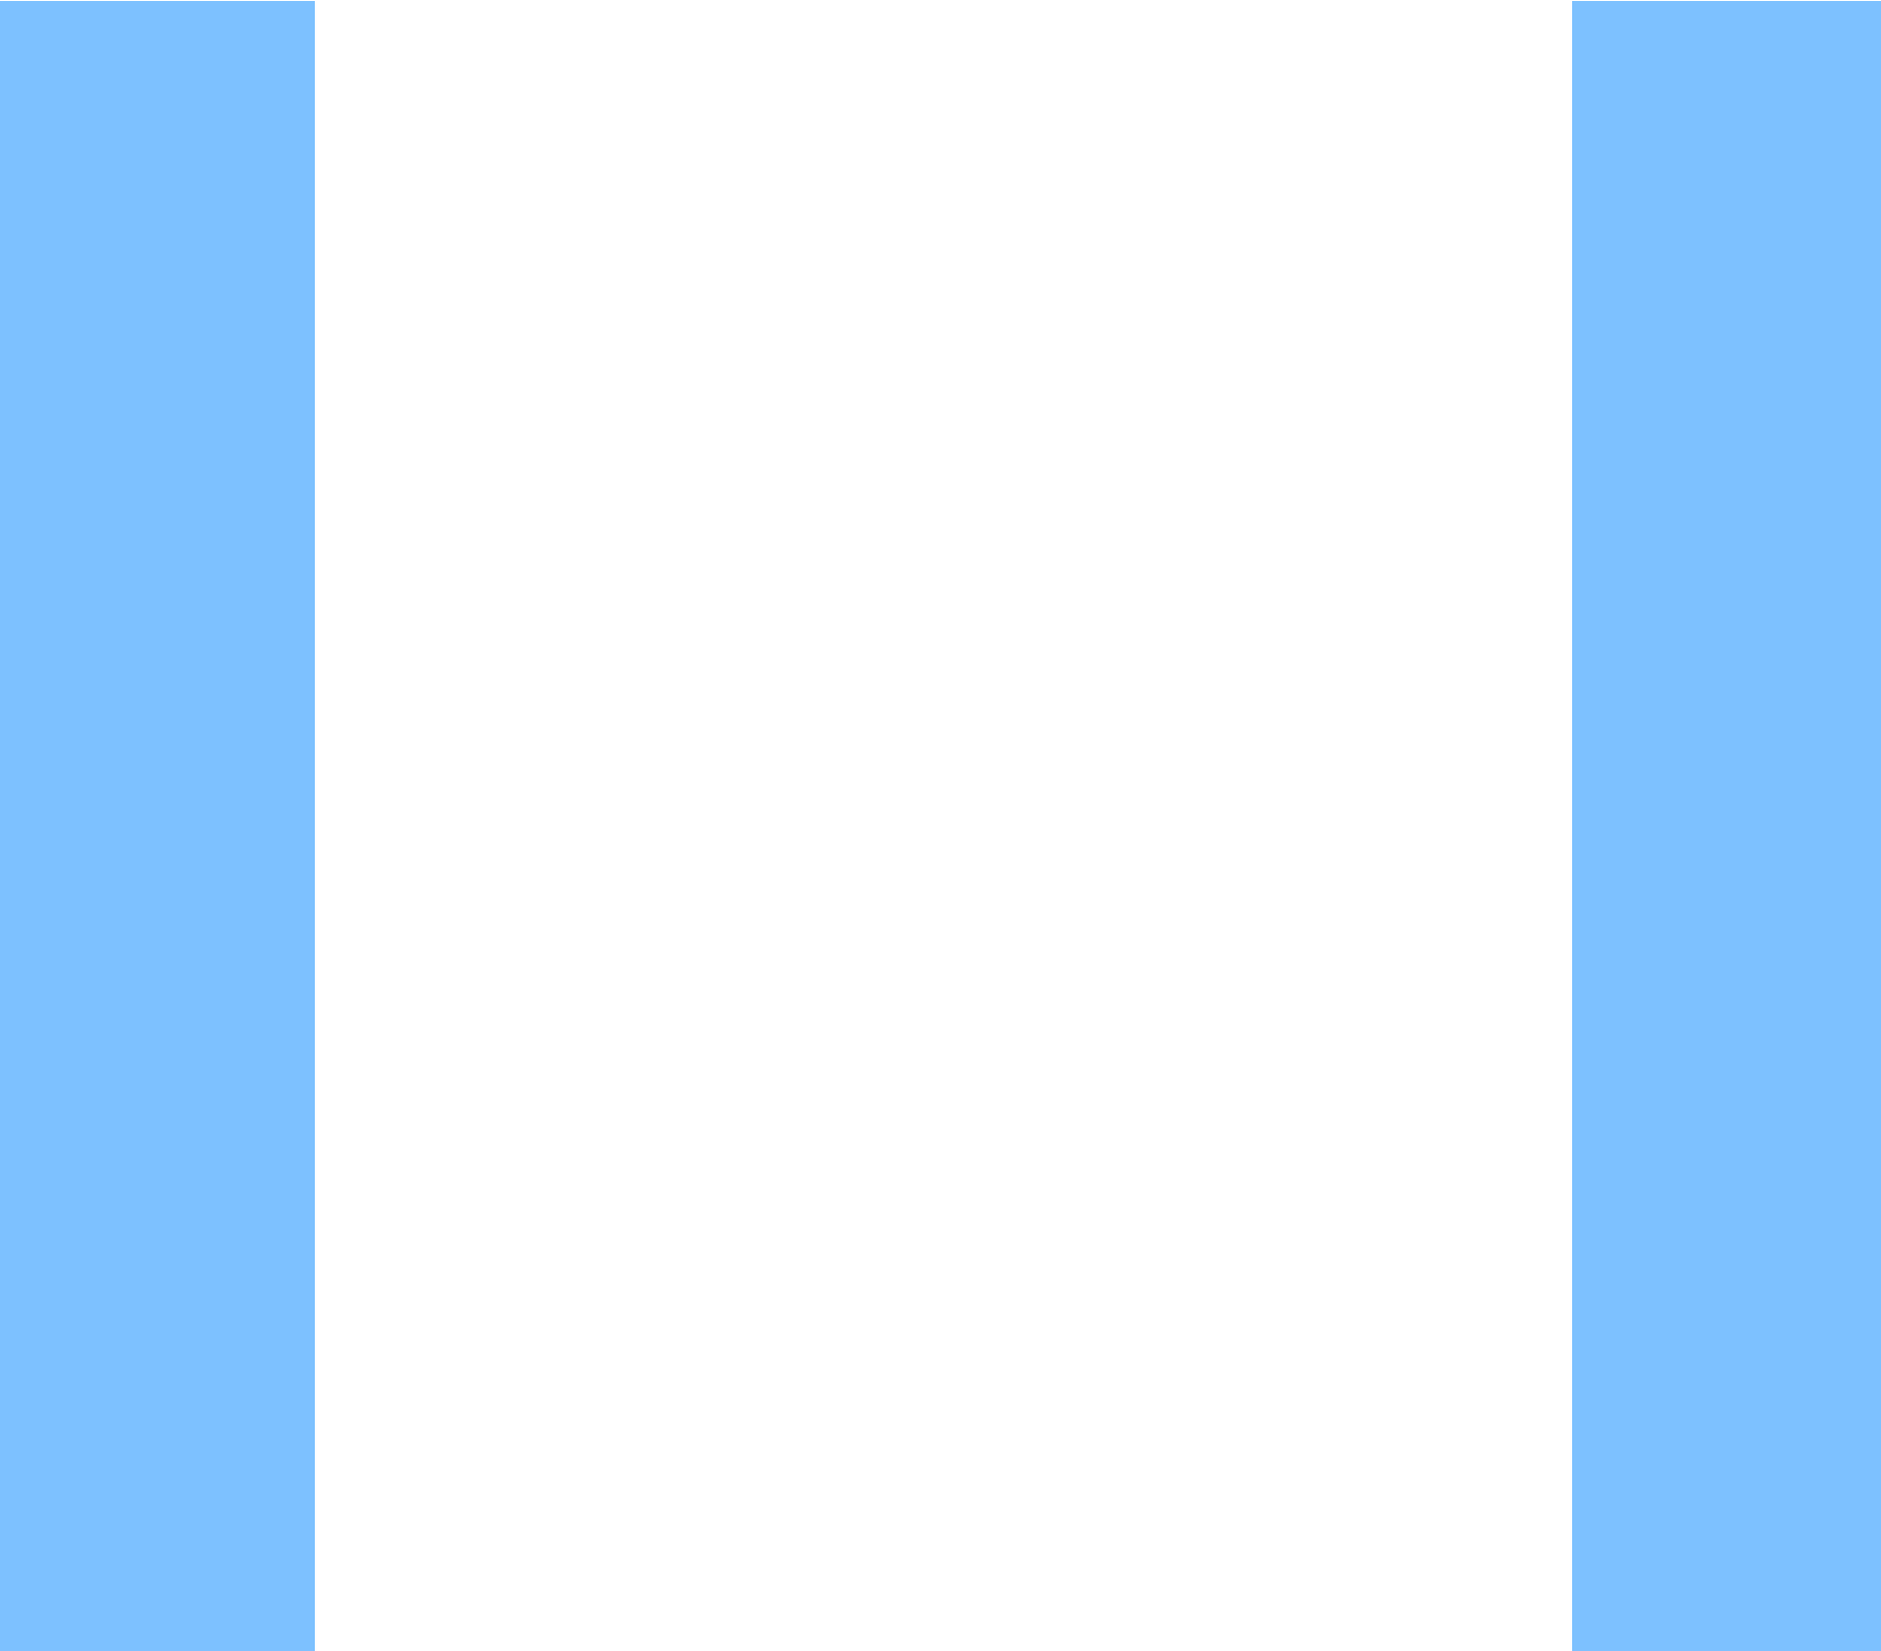
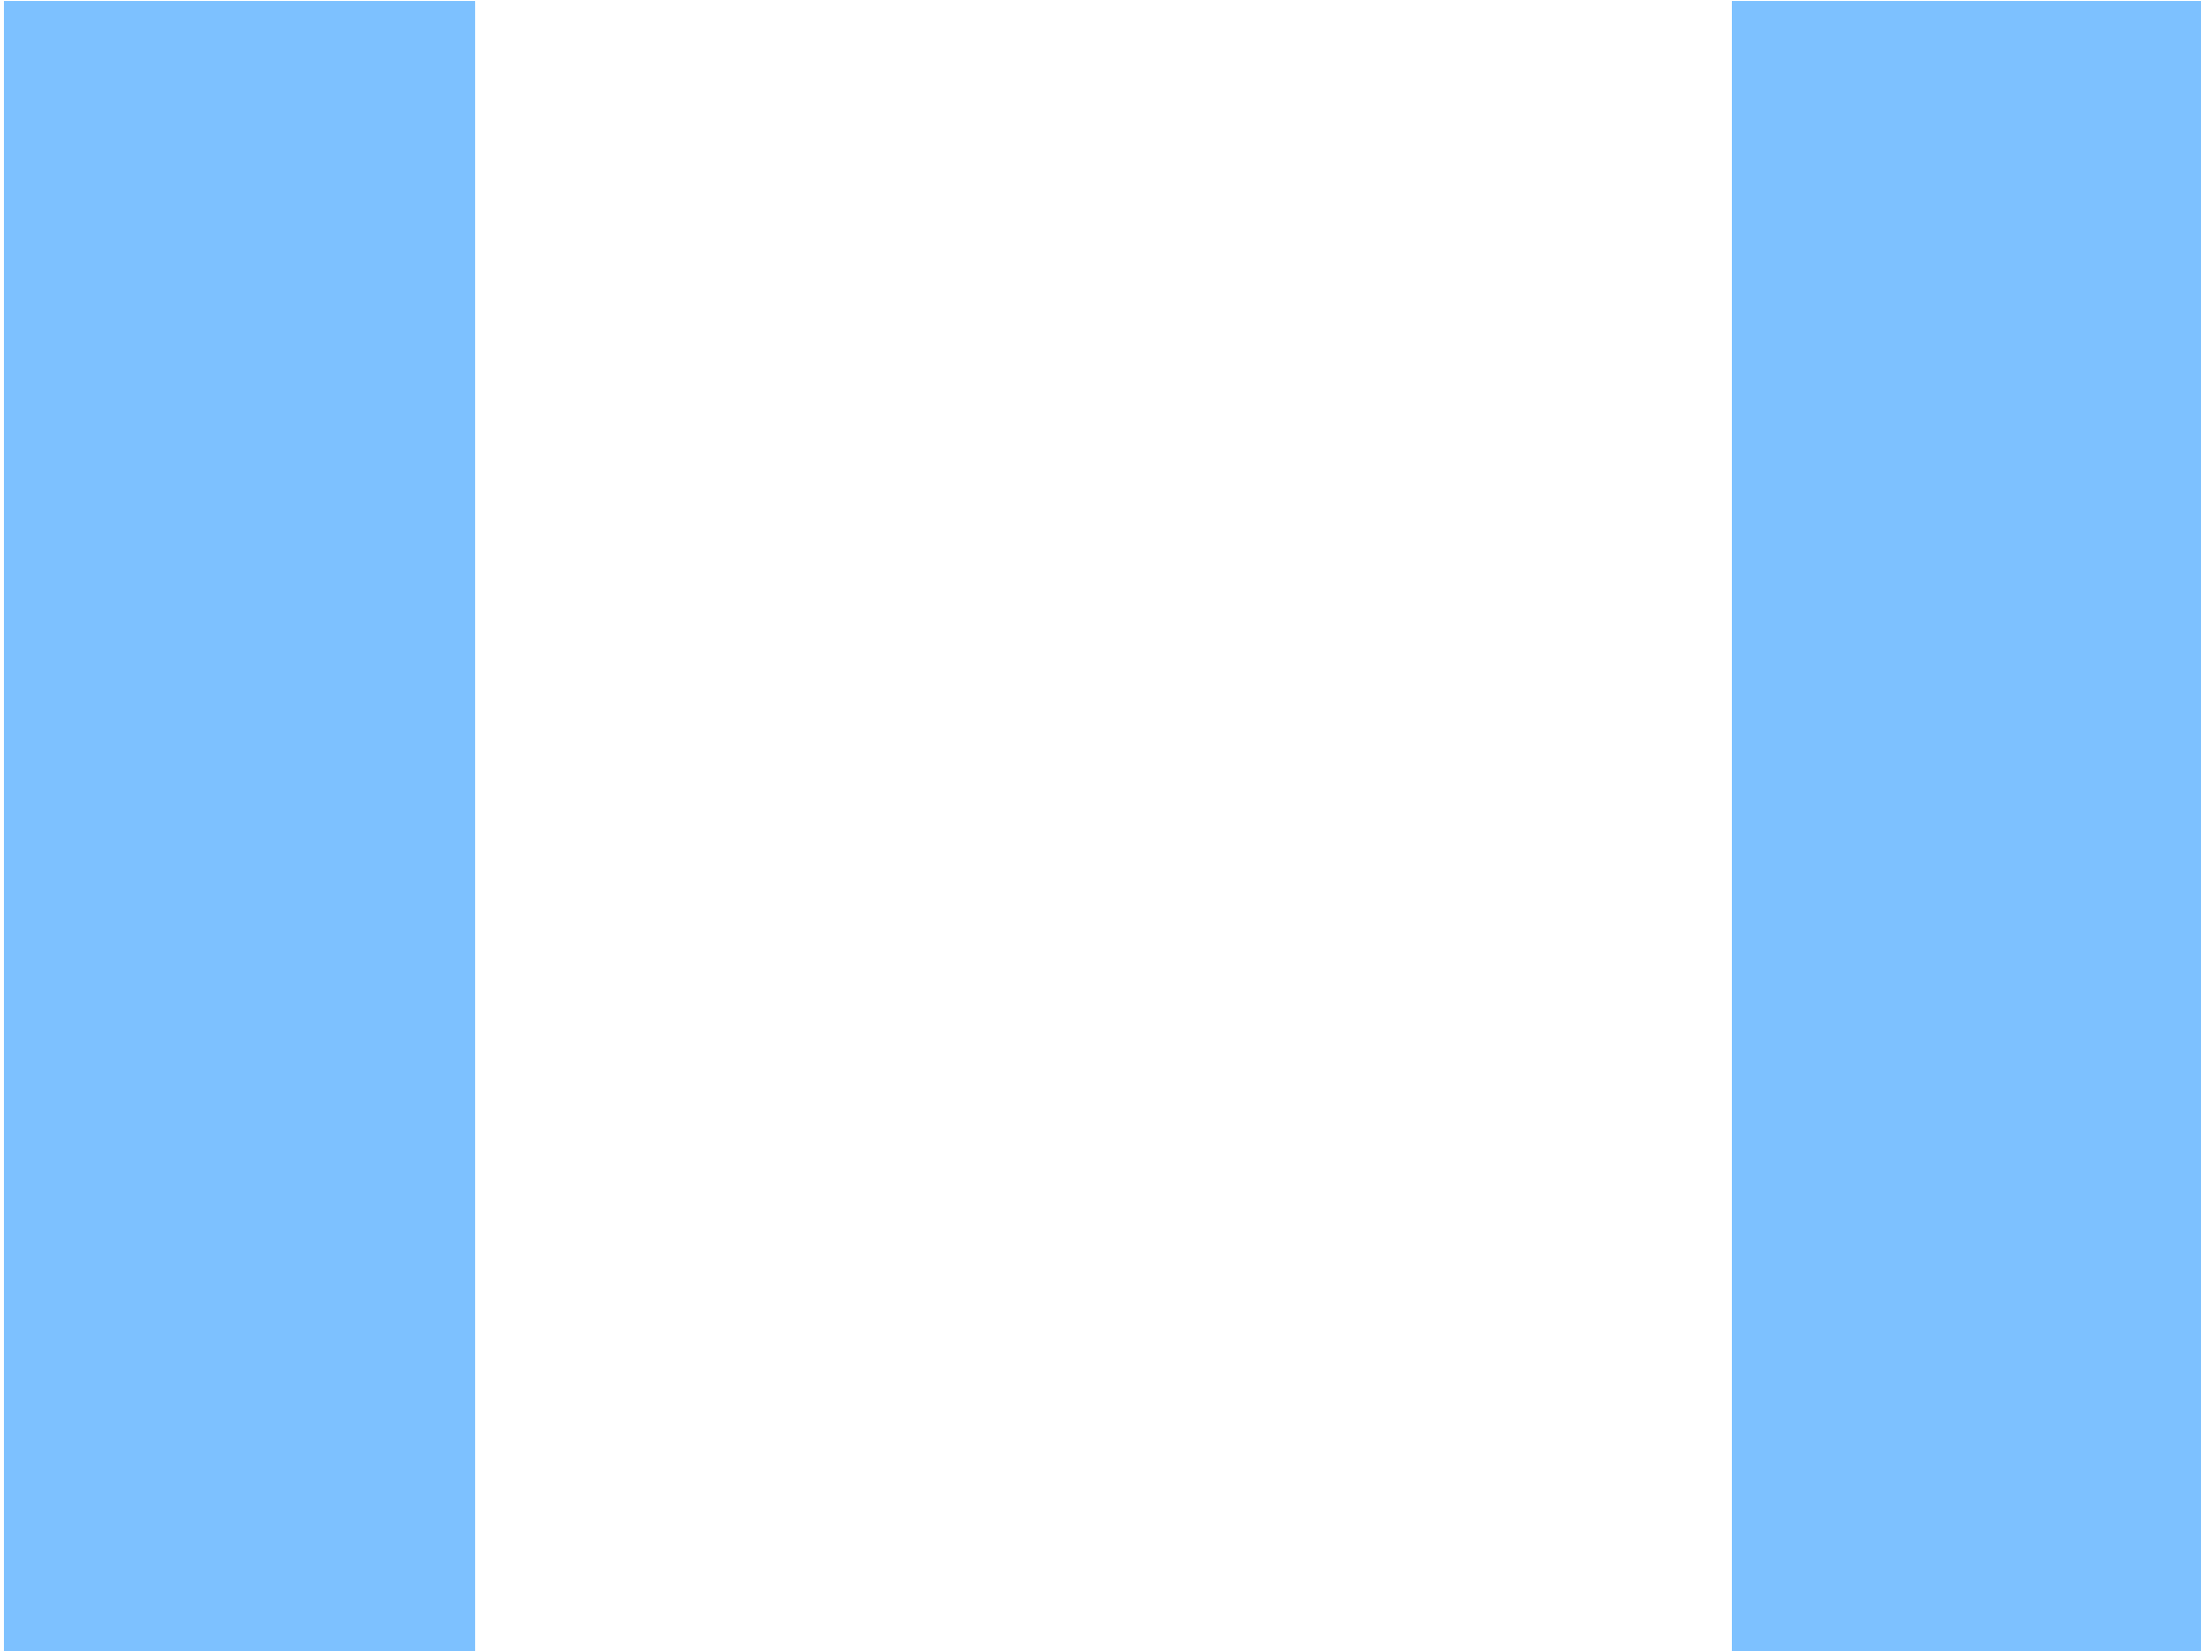
working on background

Changed region(s): [[0.7763, 0.0, 0.8384, 1.0], [0.1553, 0.0, 0.2174, 1.0]]

diff --git a/LESS/global.less b/LESS/global.less
@@ -37,7 +37,7 @@
 
   body {
     background-image: url("../image/Background.PNG"), url("../image/Sides.PNG");
-    background-size: contain, contain 100vh;
+    background-size: contain, cover 100vh;
     background-position: top, top;
     background-repeat: no-repeat, no-repeat;
 
